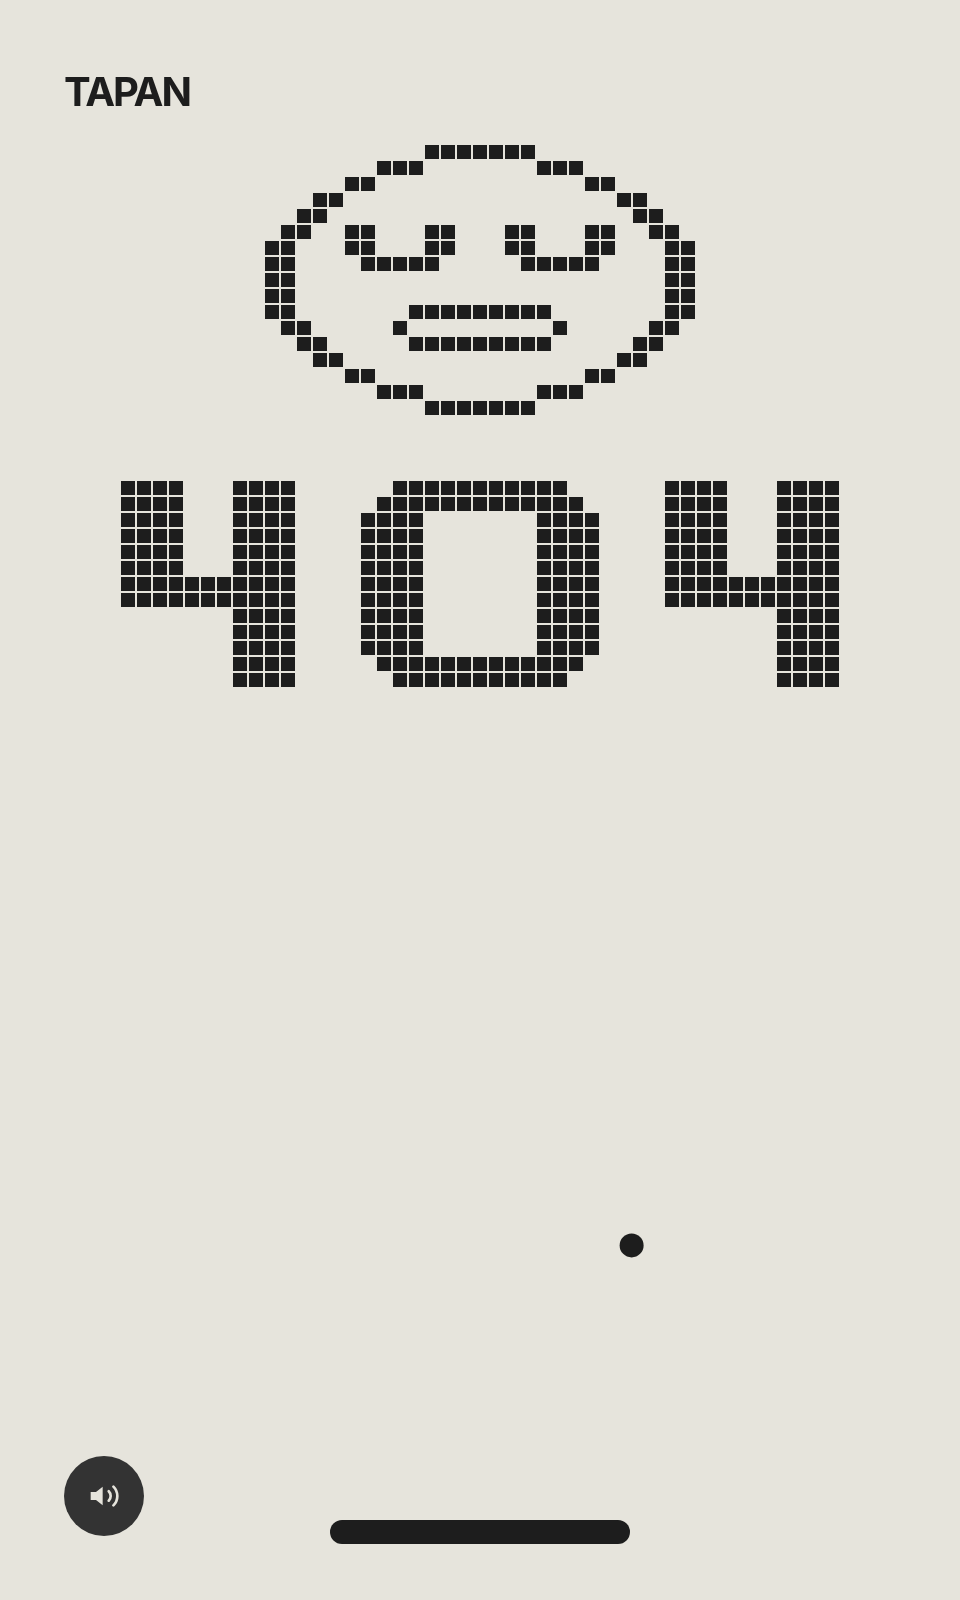
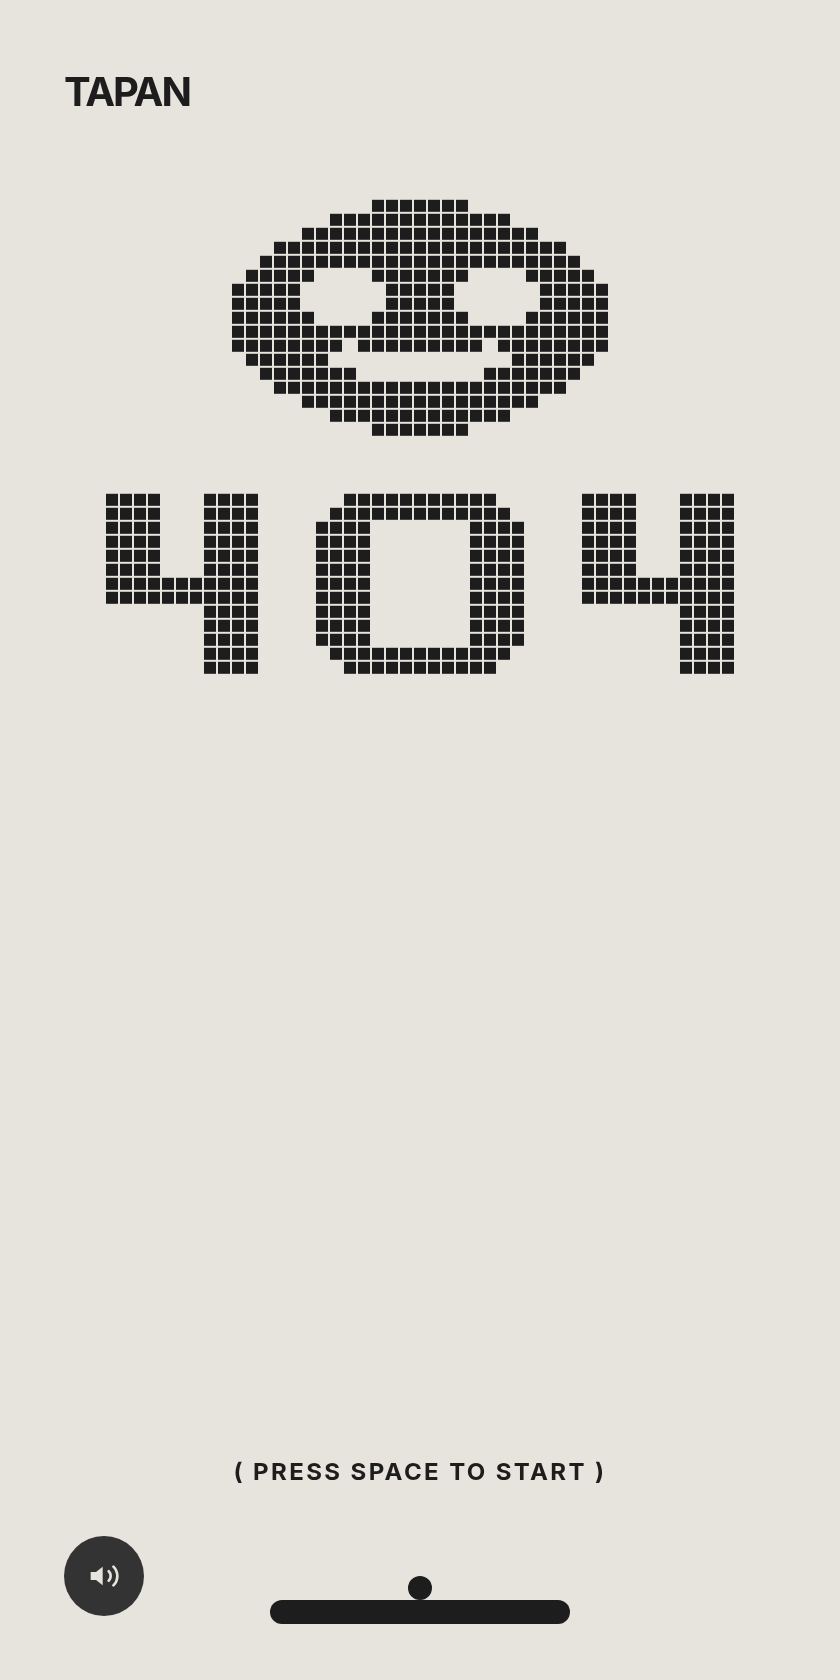
feat: update featured project image alignment to object-center and add new mobile assets

diff --git a/src/components/sections/featured-projects.tsx b/src/components/sections/featured-projects.tsx
@@ -209,7 +209,7 @@ export function FeaturedProjects() {
                               alt={project.title}
                               fill
                               sizes="(max-width: 1200px) 50vw, 600px"
-                              className="object-cover object-top group-hover/img:scale-105 transition-transform duration-700"
+                              className="object-cover object-center group-hover/img:scale-105 transition-transform duration-700"
                             />
                           ) : (
                             <div className="w-full h-full flex flex-col items-center justify-center bg-gradient-to-br from-secondary/50 to-background p-6 text-center">
